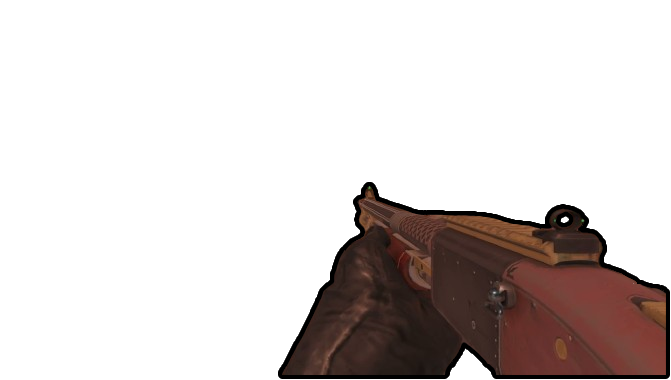
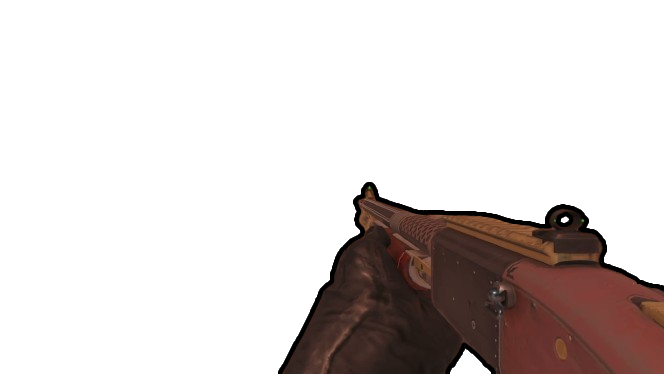
added front and back mouvement

Changed region(s): [[0.3916, 0.4706, 1.0, 1.0], [0.8133, 0.8824, 0.8434, 0.9118]]

diff --git a/src/cub3d.c b/src/cub3d.c
@@ -6,7 +6,7 @@
 /*   By: mdakni <mdakni@student.42.fr>              +#+  +:+       +#+        */
 /*                                                +#+#+#+#+#+   +#+           */
 /*   Created: 2025/07/30 12:13:24 by mdakni            #+#    #+#             */
-/*   Updated: 2026/01/25 22:53:50 by mdakni           ###   ########.fr       */
+/*   Updated: 2026/01/26 18:15:57 by mdakni           ###   ########.fr       */
 /*                                                                            */
 /* ************************************************************************** */
 
@@ -69,6 +69,11 @@ double ft_lerp_tilt(double dst, double current){
 double ft_lerp_fov(double dst, double current, double lerp_rate){
     return (dst * lerp_rate) + (current * (1.0 - lerp_rate));
 }
+
+double ft_lerp_move(double dst, double current, double lerp_rate){
+    return (current * lerp_rate) + (dst * (1.0 - lerp_rate));
+}
+
 
 void draw_player(t_cube *cube)
 {
@@ -222,13 +227,18 @@ void ft_mouvement(t_cube *cube)
     }
     if(mlx_is_key_down(cube->mlx, MLX_KEY_W))
     {
+        cube->player.weapon.move_lerp = ft_lerp_move(-move_increase, cube->player.weapon.move_lerp, MOVE_LERP);
         dst_speed_FB_X = max_cos_speed;
         dst_speed_FB_Y = max_sin_speed;
     }
     else if(mlx_is_key_down(cube->mlx, MLX_KEY_S))
     {
+        cube->player.weapon.move_lerp = ft_lerp_move(move_increase, cube->player.weapon.move_lerp, MOVE_LERP);
         dst_speed_FB_X = -1 * max_cos_speed;
         dst_speed_FB_Y = -1 * max_sin_speed;
+    }
+    else{
+        cube->player.weapon.move_lerp = ft_lerp_move(0, cube->player.weapon.move_lerp, MOVE_LERP);
     }
 
     cube->tilt_angle = ft_lerp_tilt(target_angle, cube->tilt_angle);
@@ -1474,7 +1484,7 @@ void ft_tilt(t_cube *cube){
 
     double flash = 1;
     if(cube->player.delay == true && ((int)((tv.tv_sec * 1000) + (tv.tv_usec / 1000)) - cube->player.weapon.frame_delay < 100))
-        flash = 1.3;
+        flash = 2.0;
    x = 0;
     while(x < max_new_x){
         y = 0;
@@ -1485,10 +1495,16 @@ void ft_tilt(t_cube *cube){
             if(prev_y >= 0 && prev_y < SCREEN_HEIGHT){
                 int new_dst = (max_new_x * y * 4) + (x * 4);
                 int prev_dst = (SCREEN_WIDTH * (int)prev_y * 4) + ((int)prev_x * 4);
-                cube->new_buffer[new_dst + 0] = cube->prev_buffer[prev_dst + 0] * flash;
-                cube->new_buffer[new_dst + 1] = cube->prev_buffer[prev_dst + 1] * flash;
-                cube->new_buffer[new_dst + 2] = cube->prev_buffer[prev_dst + 2] * flash;
-                cube->new_buffer[new_dst + 3] = cube->prev_buffer[prev_dst + 3] * flash;
+                cube->new_buffer[new_dst + 0] = (uint8_t)cube->prev_buffer[prev_dst + 0] * flash;
+                if((uint8_t)cube->prev_buffer[prev_dst + 0] * flash > 255)
+                    cube->new_buffer[new_dst + 0] = (uint8_t)255;
+                cube->new_buffer[new_dst + 1] = (uint8_t)cube->prev_buffer[prev_dst + 1] * flash;
+                if((uint8_t)cube->prev_buffer[prev_dst + 1] * flash > 255)
+                    cube->new_buffer[new_dst + 1] = (uint8_t)255;
+                cube->new_buffer[new_dst + 2] = (uint8_t)cube->prev_buffer[prev_dst + 2] * flash;
+                if((uint8_t)cube->prev_buffer[prev_dst + 2] * flash > 255)
+                    cube->new_buffer[new_dst + 2] = (uint8_t)255;
+                cube->new_buffer[new_dst + 3] = (uint8_t)cube->prev_buffer[prev_dst + 3];
             }
             y++;
         }
@@ -1517,9 +1533,9 @@ void ft_tilt(t_cube *cube){
 // }
 
 void ft_weapon(t_cube *cube){
-    int start_x = 0;
+    int start_x = SCREEN_WIDTH * 0.2;
     int x = start_x;
-    int start_y = 0;
+    int start_y = SCREEN_HEIGHT * 0.2;
     int y = start_y;
 
     struct timeval tv;
@@ -1527,6 +1543,19 @@ void ft_weapon(t_cube *cube){
     long current_time = (tv.tv_sec * 1000) + (tv.tv_usec / 1000);
 
 // printf("pitch_changed : %d, delay : %d\n", cube->player.weapon.pitch_changed, cube->player.delay);
+
+
+// code for 2nd idle frame
+    // if(cube->player.delay == false){
+    //     if(current_time - cube->player.weapon.idle_time > 500){
+    //         cube->player.weapon.idle_frame = !cube->player.weapon.idle_frame;   
+    //         cube->player.weapon.idle_time = current_time;
+    //     }
+    //     if(cube->player.weapon.idle_frame == 0)
+    //         cube->player.weapon.texture = cube->player.weapon.idle_texture;
+    //     else
+    //         cube->player.weapon.texture = cube->player.weapon.idle_texture_2;
+    // }
 
     if(cube->player.attacked == true){
         // cube->player.weapon.pitch_dst = cube->pitch + 10;
@@ -1571,17 +1600,18 @@ void ft_weapon(t_cube *cube){
         x = start_x;
         while(x < SCREEN_WIDTH){
 
-            int tex_x = (double)x * ((double)(cube->player.weapon.texture->width) / (double)(SCREEN_WIDTH));
-            int tex_y = (double)y * ((double)(cube->player.weapon.texture->height) / (double)(SCREEN_HEIGHT));
+            int tex_x = (double)(x - start_x) * ((double)(cube->player.weapon.texture->width) / (double)(SCREEN_WIDTH - start_x));
+            int tex_y = (double)(y - start_y) * ((double)(cube->player.weapon.texture->height) / (double)(SCREEN_HEIGHT - start_y));
             if(tex_x >= cube->player.weapon.texture->width || tex_y >= cube->player.weapon.texture->height || cube->player.weapon.texture->pixels[tex_y * 4 * cube->player.weapon.texture->width + tex_x * 4 + 3] == 0){
                 x++;
                 continue;
             }
-
-            cube->prev_buffer[((int)y * 4 * SCREEN_WIDTH) + ((int)x * 4) + 0] = cube->player.weapon.texture->pixels[tex_y * 4 * cube->player.weapon.texture->width + tex_x * 4 + 0];
-            cube->prev_buffer[((int)y * 4 * SCREEN_WIDTH) + ((int)x * 4) + 1] = cube->player.weapon.texture->pixels[tex_y * 4 * cube->player.weapon.texture->width + tex_x * 4 + 1];
-            cube->prev_buffer[((int)y * 4 * SCREEN_WIDTH) + ((int)x * 4) + 2] = cube->player.weapon.texture->pixels[tex_y * 4 * cube->player.weapon.texture->width + tex_x * 4 + 2];
-            cube->prev_buffer[((int)y * 4 * SCREEN_WIDTH) + ((int)x * 4) + 3] = cube->player.weapon.texture->pixels[tex_y * 4 * cube->player.weapon.texture->width + tex_x * 4 + 3];
+            if(y + move_increase + cube->player.weapon.move_lerp < SCREEN_HEIGHT){
+                cube->prev_buffer[((int)(y + move_increase + cube->player.weapon.move_lerp) * 4 * SCREEN_WIDTH) + ((int)x * 4) + 0] = cube->player.weapon.texture->pixels[tex_y * 4 * cube->player.weapon.texture->width + tex_x * 4 + 0];
+                cube->prev_buffer[((int)(y + move_increase + cube->player.weapon.move_lerp) * 4 * SCREEN_WIDTH) + ((int)x * 4) + 1] = cube->player.weapon.texture->pixels[tex_y * 4 * cube->player.weapon.texture->width + tex_x * 4 + 1];
+                cube->prev_buffer[((int)(y + move_increase + cube->player.weapon.move_lerp) * 4 * SCREEN_WIDTH) + ((int)x * 4) + 2] = cube->player.weapon.texture->pixels[tex_y * 4 * cube->player.weapon.texture->width + tex_x * 4 + 2];
+                cube->prev_buffer[((int)(y + move_increase + cube->player.weapon.move_lerp) * 4 * SCREEN_WIDTH) + ((int)x * 4) + 3] = cube->player.weapon.texture->pixels[tex_y * 4 * cube->player.weapon.texture->width + tex_x * 4 + 3];
+            }
             x++;
         }
         y++;
@@ -1835,7 +1865,7 @@ void ft_init_enemies(t_cube *cube){
         cube->enemy[i].HP = 100;
         cube->enemy[i].dead = false;
         cube->enemy[i].delay = false;
-        cube->enemy[i].atk_delay = 2;
+        cube->enemy[i].atk_delay = 1;
         cube->enemy[i].DMG = 50;
         cube->enemy[i].hitbox_len = 50;
         int posX = (int)(ft_rand(&seed) % (int)(MAP_X * GRID_SIZE));
@@ -1890,7 +1920,7 @@ void ft_init(t_cube *cube)
     cube->half_fov_rad = tan((cube->fov / 2.0) * RADIANT_RATE);
     cube->player.x = GRID_SIZE + (GRID_SIZE / 2);
     cube->player.y = GRID_SIZE + (GRID_SIZE / 2);
-    cube->player.HP = 150;
+    cube->player.HP = 15000;
     cube->player.delay = false;
     cube->player.atk_delay = 1;
     cube->player.DMG = 50;
@@ -1912,11 +1942,14 @@ void ft_init(t_cube *cube)
     cube->player.weapon.DMG = 50;
     cube->player.weapon.fire_rate = 2;
     cube->player.weapon.idle_texture = mlx_load_png("./shotgun_idle.png");
+    cube->player.weapon.idle_texture_2 = mlx_load_png("./shotgun_idle_2.png");
     cube->player.weapon.shoot_texture = mlx_load_png("./shoot_shotgun_test.png");
     cube->player.weapon.pump_texture = mlx_load_png("./pump_shotgun_test.png");
     cube->player.weapon.texture = cube->player.weapon.idle_texture;
     cube->player.weapon.pitch_increase = 10;
-    cube->player.weapon.animation_frame = 0;
+    cube->player.weapon.idle_time = (tv.tv_sec * 1000) + (tv.tv_usec / 1000);
+    cube->player.weapon.idle_frame = 0;
+    cube->player.weapon.move_lerp = 0;
 
     cube->crosshair_hori_start = (t_vect2){(SCREEN_WIDTH_BUFF / 2) - CROSSHAIR_LEN, (SCREEN_HEIGHT_BUFF / 2) - CROSSHAIR_GIRTH, 0, 0};
     cube->crosshair_hori_end = (t_vect2){(SCREEN_WIDTH_BUFF / 2) + CROSSHAIR_LEN, (SCREEN_HEIGHT_BUFF / 2) + CROSSHAIR_GIRTH, 0, 0};
@@ -1944,9 +1977,9 @@ void ft_init(t_cube *cube)
     cube->texture = mlx_load_png("/Users/mdakni/projects/Cub3d/PNG - Pixel Art Textures/PNGs/Concrete/s2 Concrete Squares Grey.png");
     cube->texture2 = mlx_load_png("/Users/mdakni/projects/Cub3d/PNG - Pixel Art Textures/PNGs/Tiles/Tiles Rectangle/Tiles_Rectangle_Grey_1.png");
     cube->texture3 = mlx_load_png("/Users/mdakni/projects/Cub3d/PNG - Pixel Art Textures/PNGs/Concrete/Concrete_02_Grey_1.png");
-    cube->texture4 = mlx_load_png("./miku.png");
+    cube->texture4 = mlx_load_png("./job_dude.png");
     cube->texture5 = mlx_load_png("./Monster_1.png");
-    cube->texture6 = mlx_load_png("./small_miku.png");
+    cube->texture6 = mlx_load_png("./job_app.png");
     cube->texture_died = mlx_load_png("./you_died.png");
     cube->line_girth = (int)(SCREEN_WIDTH / RES);
     if(cube->line_girth == 0)

diff --git a/includes/cub3d.h b/includes/cub3d.h
@@ -6,7 +6,7 @@
 /*   By: mdakni <mdakni@student.42.fr>              +#+  +:+       +#+        */
 /*                                                +#+#+#+#+#+   +#+           */
 /*   Created: 2025/07/30 12:15:11 by skully            #+#    #+#             */
-/*   Updated: 2026/01/25 22:57:24 by mdakni           ###   ########.fr       */
+/*   Updated: 2026/01/26 18:15:50 by mdakni           ###   ########.fr       */
 /*                                                                            */
 /* ************************************************************************** */
 
@@ -36,7 +36,7 @@
 # define FOV 70
 # define PI 3.14159265359
 # define RADIANT_RATE (PI / 180)
-# define WALL_DST 2
+# define WALL_DST 10
 # define WALL_SCALE (SCREEN_HEIGHT / 2)
 # define TURN_SPEED 0.001
 # define GRID_SIZE 64.0f
@@ -54,17 +54,19 @@
 # define TILT_LERP 0.1
 # define FOV_LERP 0.1
 # define RECOIL_LERP 0.8
+# define MOVE_LERP 0.9
+# define move_increase 10
 # define PITCH_MAX (SCREEN_HEIGHT + 100)
 # define MINI_MAP_X 50
 # define MINI_MAP_Y 50
 # define MAP_SIZE 100
 # define ENEMY_RADIUS 500.0
 # define ENEMY_SPEED 1
-# define ENEMY_NUM 10
+# define ENEMY_NUM 30
 # define CROSSHAIR_LEN 7.0
 # define CROSSHAIR_GIRTH 1.0
 # define CROSSHAIR_COLOR 0xff0000ff
-# define MIN_ATK_DST 300
+# define MIN_ATK_DST 1000
 # define MAX_PROJECTILES 100
 # define HITBOX_DST 30
 # define TILT_ANGLE 1
@@ -90,6 +92,7 @@ typedef struct s_weapon{
 	suseconds_t		frame_delay;
 	mlx_texture_t	*texture;
 	mlx_texture_t	*idle_texture;
+	mlx_texture_t	*idle_texture_2;
 	mlx_texture_t	*shoot_texture;
 	mlx_texture_t	*pump_texture;
 	double			pitch_og;
@@ -97,7 +100,9 @@ typedef struct s_weapon{
 	bool			pitch_changed;
 	bool			pitch_back;
 	double			pitch_dst;
-	int				animation_frame;
+	unsigned long 	idle_time;
+	bool 			idle_frame;
+	double			move_lerp;
 }					t_weapon;
 
 typedef enum s_state
